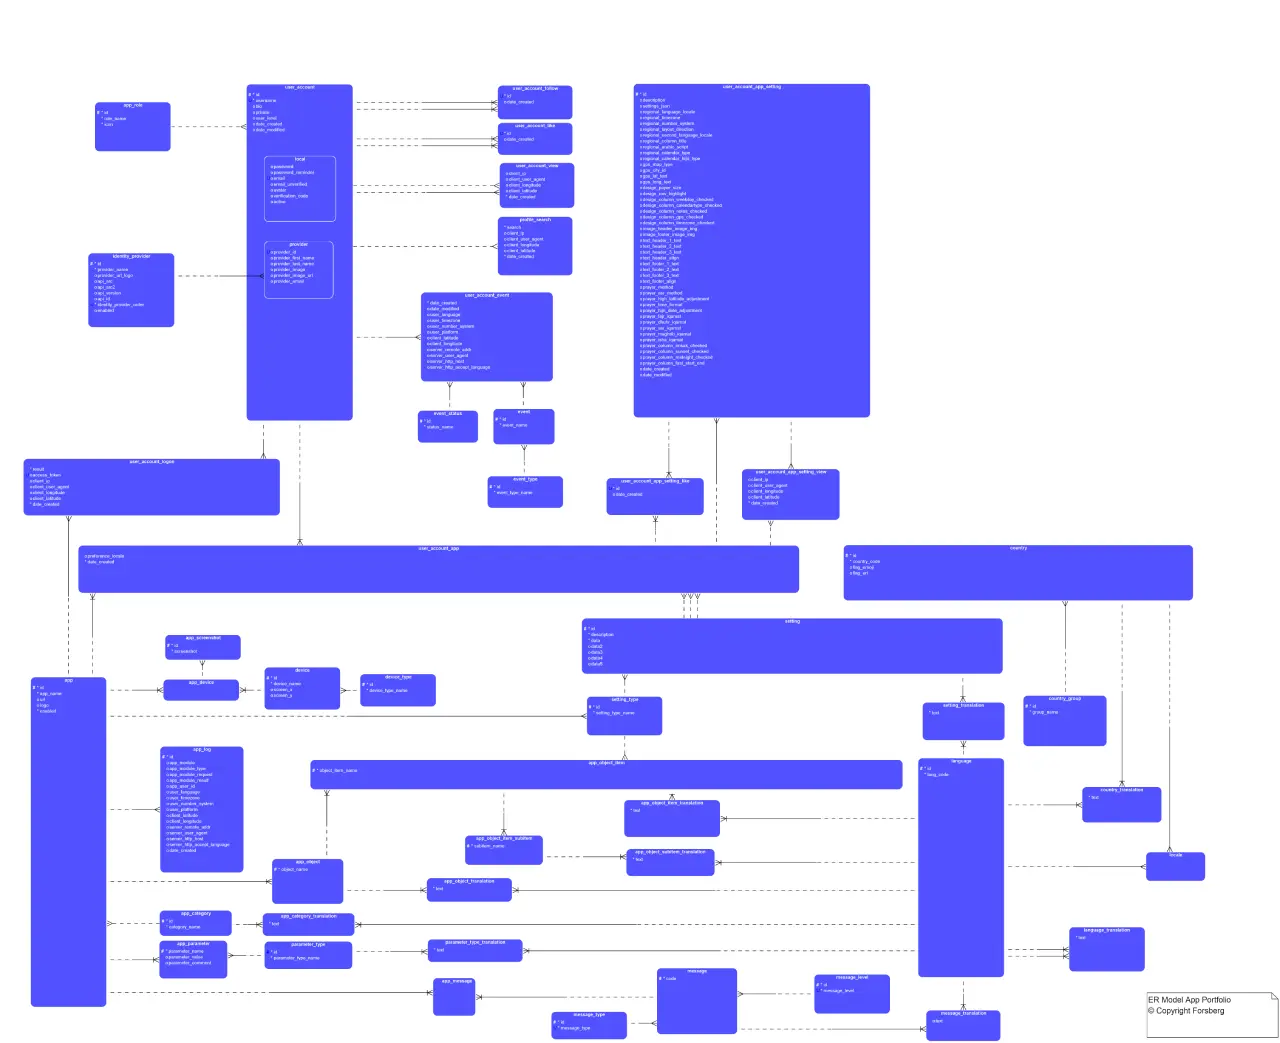
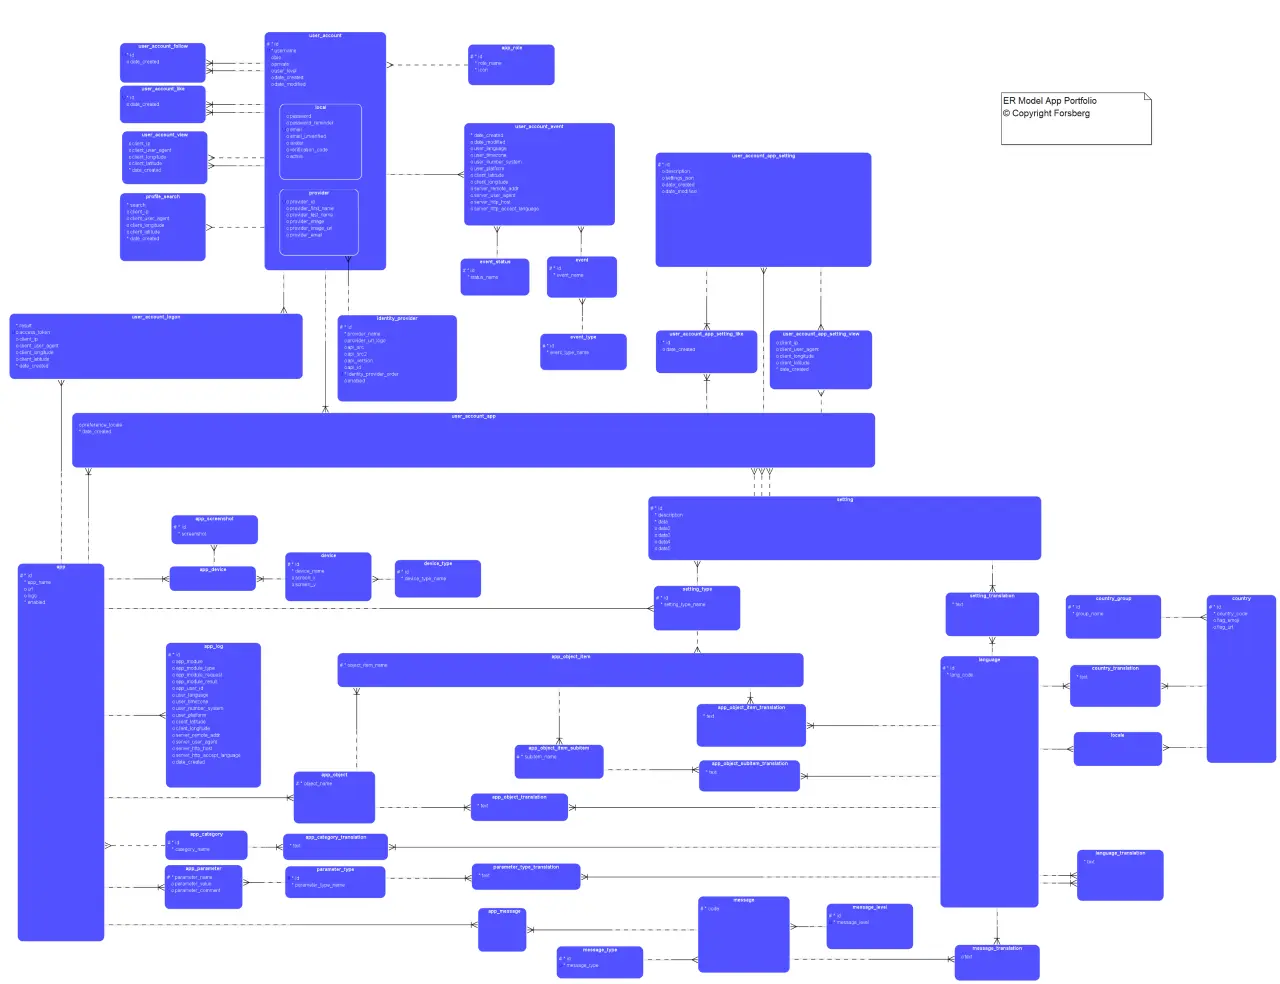
APB-479 removes old settings columns in USER_ACCOUNT_APP_SETTING, removes control that settings_json has a value, in app.js and app_report.js, drops user_account_app_setting_country_fk, updates data model

diff --git a/service/db/app_portfolio/user_account_app_setting/user_account_app_setting.service.js b/service/db/app_portfolio/user_account_app_setting/user_account_app_setting.service.js
@@ -92,55 +92,6 @@ const getUserSetting = (app_id, id, callBack) => {
 		sql = `SELECT	id "id",
 						description "description",
 						settings_json "settings_json",
-						regional_language_locale "regional_language_locale",
-						regional_timezone "regional_timezone",
-						regional_number_system "regional_number_system",
-						regional_layout_direction "regional_layout_direction",
-						regional_second_language_locale "regional_second_language_locale",
-						regional_column_title "regional_column_title",
-						regional_arabic_script "regional_arabic_script",
-						regional_calendar_type "regional_calendar_type",
-						regional_calendar_hijri_type "regional_calendar_hijri_type",
-						gps_map_type "gps_map_type",
-						gps_country_id "gps_country_id",
-						gps_city_id "gps_city_id",
-						gps_popular_place_id "gps_popular_place_id",
-						gps_lat_text "gps_lat_text",
-						gps_long_text "gps_long_text",
-						design_theme_day_id "design_theme_day_id",
-						design_theme_month_id "design_theme_month_id",
-						design_theme_year_id "design_theme_year_id",
-						design_paper_size "design_paper_size",
-						design_row_highlight "design_row_highlight",
-						design_column_weekday_checked "design_column_weekday_checked",
-						design_column_calendartype_checked "design_column_calendartype_checked",
-						design_column_notes_checked "design_column_notes_checked",
-						design_column_gps_checked "design_column_gps_checked",
-						design_column_timezone_checked "design_column_timezone_checked",
-						image_header_image_img "image_header_image_img",
-						image_footer_image_img "image_footer_image_img",
-						text_header_1_text "text_header_1_text",
-						text_header_2_text "text_header_2_text",
-						text_header_3_text "text_header_3_text",
-						text_header_align "text_header_align",
-						text_footer_1_text "text_footer_1_text",
-						text_footer_2_text "text_footer_2_text",
-						text_footer_3_text "text_footer_3_text",
-						text_footer_align "text_footer_align",
-						prayer_method "prayer_method",
-						prayer_asr_method "prayer_asr_method",
-						prayer_high_latitude_adjustment "prayer_high_latitude_adjustment",
-						prayer_time_format "prayer_time_format",
-						prayer_hijri_date_adjustment "prayer_hijri_date_adjustment",
-						prayer_fajr_iqamat "prayer_fajr_iqamat",
-						prayer_dhuhr_iqamat "prayer_dhuhr_iqamat",
-						prayer_asr_iqamat "prayer_asr_iqamat",
-						prayer_maghrib_iqamat "prayer_maghrib_iqamat",
-						prayer_isha_iqamat "prayer_isha_iqamat",
-						prayer_column_imsak_checked "prayer_column_imsak_checked",
-						prayer_column_sunset_checked "prayer_column_sunset_checked",
-						prayer_column_midnight_checked "prayer_column_midnight_checked",
-						prayer_column_fast_start_end "prayer_column_fast_start_end",
 						date_created "date_created",
 						date_modified "date_modified",
 						user_account_app_user_account_id "user_account_app_user_account_id",
@@ -167,55 +118,6 @@ const getUserSettingsByUserId = (app_id, id, callBack) => {
 		sql = `SELECT	id "id",
 						description "description",
 						settings_json "settings_json",
-						regional_language_locale "regional_language_locale",
-						regional_timezone "regional_timezone",
-						regional_number_system "regional_number_system",
-						regional_layout_direction "regional_layout_direction",
-						regional_second_language_locale "regional_second_language_locale",
-						regional_column_title "regional_column_title",
-						regional_arabic_script "regional_arabic_script",
-						regional_calendar_type "regional_calendar_type",
-						regional_calendar_hijri_type "regional_calendar_hijri_type",
-						gps_map_type "gps_map_type",
-						gps_country_id "gps_country_id",
-						gps_city_id "gps_city_id",
-						gps_popular_place_id "gps_popular_place_id",
-						gps_lat_text "gps_lat_text",
-						gps_long_text "gps_long_text",
-						design_theme_day_id "design_theme_day_id",
-						design_theme_month_id "design_theme_month_id",
-						design_theme_year_id "design_theme_year_id",
-						design_paper_size "design_paper_size",
-						design_row_highlight "design_row_highlight",
-						design_column_weekday_checked "design_column_weekday_checked",
-						design_column_calendartype_checked "design_column_calendartype_checked",
-						design_column_notes_checked "design_column_notes_checked",
-						design_column_gps_checked "design_column_gps_checked",
-						design_column_timezone_checked "design_column_timezone_checked",
-						image_header_image_img "image_header_image_img",
-						image_footer_image_img "image_footer_image_img",
-						text_header_1_text "text_header_1_text",
-						text_header_2_text "text_header_2_text",
-						text_header_3_text "text_header_3_text",
-						text_header_align "text_header_align",
-						text_footer_1_text "text_footer_1_text",
-						text_footer_2_text "text_footer_2_text",
-						text_footer_3_text "text_footer_3_text",
-						text_footer_align "text_footer_align",
-						prayer_method "prayer_method",
-						prayer_asr_method "prayer_asr_method",
-						prayer_high_latitude_adjustment "prayer_high_latitude_adjustment",
-						prayer_time_format "prayer_time_format",
-						prayer_hijri_date_adjustment "prayer_hijri_date_adjustment",
-						prayer_fajr_iqamat "prayer_fajr_iqamat",
-						prayer_dhuhr_iqamat "prayer_dhuhr_iqamat",
-						prayer_asr_iqamat "prayer_asr_iqamat",
-						prayer_maghrib_iqamat "prayer_maghrib_iqamat",
-						prayer_isha_iqamat "prayer_isha_iqamat",
-						prayer_column_imsak_checked "prayer_column_imsak_checked",
-						prayer_column_sunset_checked "prayer_column_sunset_checked",
-						prayer_column_midnight_checked "prayer_column_midnight_checked",
-						prayer_column_fast_start_end "prayer_column_fast_start_end",
 						date_created "date_created",
 						date_modified "date_modified",
 						user_account_app_user_account_id "user_account_app_user_account_id",

diff --git a/apps/app2/js/app.js b/apps/app2/js/app.js
@@ -1199,24 +1199,22 @@ const profile_detail_app = (detailchoice, rest_url_app, fetch_detail, header_app
 /*----------------------- */
 const user_settings_get = async (user_setting_id = '') => {
     let select = document.getElementById("setting_select_user_setting");
-    let json;
+    let result_obj;
     
     await common.common_fetch(`${common.COMMON_GLOBAL['rest_resource_service']}/db${common.COMMON_GLOBAL['rest_resource_service_db_schema']}/user_account_app_setting/user_account_id/${common.COMMON_GLOBAL['user_account_id']}?`, 
                        'GET', 0, null, null, null, (err, result) =>{
         if (err)
             null;
         else{
-            json = JSON.parse(result);
+            result_obj = JSON.parse(result);
             select.innerHTML = '';
             //fill select
             let option_html = '';
             for (let i = 0; i < json.count; i++) {
                 let settings;
-                if (json.items[i].settings_json)
-                    settings = JSON.parse(json.items[i].settings_json);
-                else
-                    settings = json.items[i];
-                option_html += `<option value=${i} id=${json.items[i].id} description='${settings.description}'
+                settings = JSON.parse(result_obj.items[i].settings_json);
+                
+                option_html += `<option value=${i} id=${result_obj.items[i].id} description='${settings.description}'
                                     regional_language_locale=${settings.regional_language_locale}
                                     regional_timezone=${settings.regional_timezone}
                                     regional_number_system=${settings.regional_number_system}
@@ -1266,7 +1264,7 @@ const user_settings_get = async (user_setting_id = '') => {
                                     prayer_column_sunset_checked=${settings.prayer_column_sunset_checked}
                                     prayer_column_midnight_checked=${settings.prayer_column_midnight_checked}
                                     prayer_column_fast_start_end=${settings.prayer_column_fast_start_end}
-                                    user_account_id=${json.items[i].user_account_app_user_account_id}
+                                    user_account_id=${result_obj.items[i].user_account_app_user_account_id}
                                     >${settings.description}
                                 </option>`
             }

diff --git a/apps/app2/js/app_report.js b/apps/app2/js/app_report.js
@@ -94,7 +94,7 @@ const REPORT_GLOBAL = {
 /* COMMON REPORT		  */
 /*----------------------- */
 const timetable_user_setting_get = async (user_setting_id, callBack) => {
-    let json;
+    let result_obj;
 	await common.common_fetch(`${common.COMMON_GLOBAL['rest_resource_service']}/db${common.COMMON_GLOBAL['rest_resource_service_db_schema']}/user_account_app_setting/${user_setting_id}?`,
 					   'GET', 0, null, null, null, (err, result) =>{
 		if (err){
@@ -102,12 +102,9 @@ const timetable_user_setting_get = async (user_setting_id, callBack) => {
 			callBack(err, null);
 		}
 		else{
-			json = JSON.parse(result);
+			result_obj = JSON.parse(result);
 			let settings;
-			if (json.settings_json)
-				settings = JSON.parse(json.settings_json);
-			else
-				settings = json;
+			settings = JSON.parse(result_obj.settings_json);
 			//set papersize on paper div
 			document.getElementById('paper').className= settings.design_paper_size;
 			callBack(null,
@@ -1252,10 +1249,7 @@ const timetable_day_user_settings_get = async (user_account_id, callBack) => {
 				//different texts, images, second languages, directions, column titles, 
 				//arabic script, themes or what columns to display, for these use current users setting
 				let settings;
-                if (json.items[i].settings_json)
-                    settings = JSON.parse(json.items[i].settings_json);
-                else
-                    settings = json.items[i];
+                settings = JSON.parse(json.items[i].settings_json);
 				user_settings.push(
 					{
 					"description" : settings.description,
